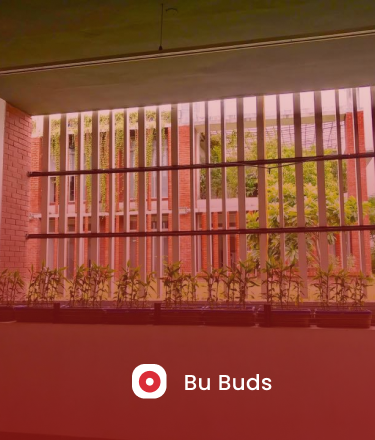
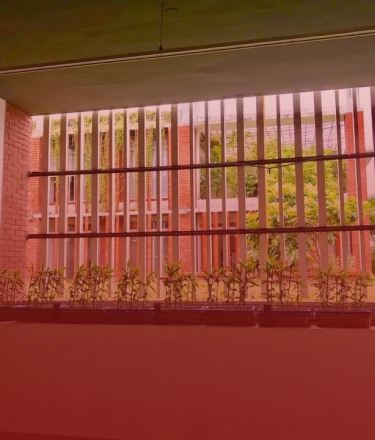
Fixing codes.

Changed region(s): [[0.352, 0.8273, 0.7333, 0.9159]]

diff --git a/lib/utils/validators.dart b/lib/utils/validators.dart
@@ -34,7 +34,7 @@ class Validators {
     if (value == null || value.isEmpty) {
       return 'Phone number cannot be empty';
     }
-    if (value.length != 10 || !value.startsWith('1875263157')) {
+    if (value.length != 11 || !value.startsWith('01875263157')) {
       return 'Invalid phone number format';
     }
     return null;
